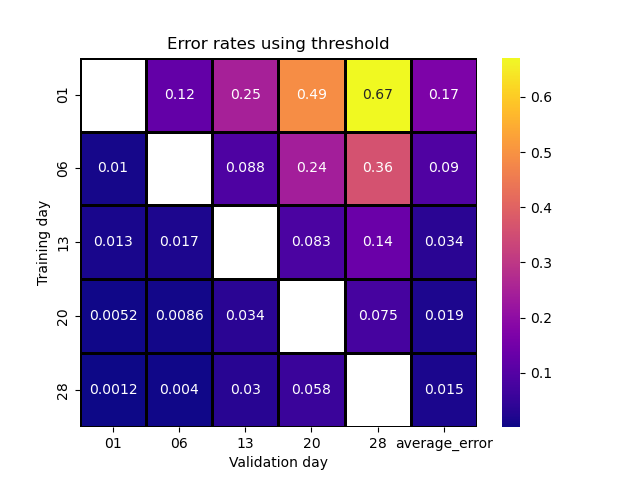
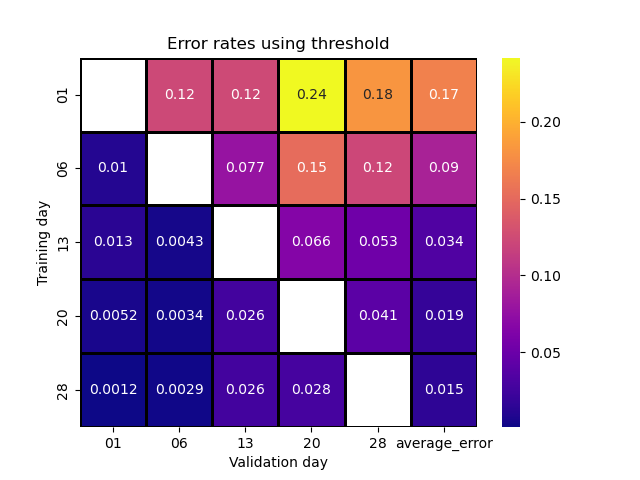
bug in plot

diff --git a/Project2/exp3.py b/Project2/exp3.py
@@ -34,15 +34,19 @@ def finds_best_band_using_threshold(fatPix, meatPix):
             mean_error_rate.append((error_rate_meat[i] + error_rate_fat[i]) / 2)
 
     best_band = mean_error_rate.index(min(mean_error_rate))
-    return best_band, t[best_band]
+    return best_band, t[best_band], mean_fat[best_band] > mean_meat[best_band]
 
 
 
-def cal_thres_errorrate(band, threshold):
+def cal_thres_errorrate(fatPix, meatPix, band, threshold, mean_meat_less_mean_fat):
 
     # recall meat is less than threshold, fat is greater than threshold
-    thres_errors_fat = np.sum(fatPix[:, band] < threshold)
-    thres_errors_meat = np.sum(meatPix[:, band] > threshold)
+    if mean_meat_less_mean_fat:
+        thres_errors_fat = np.sum(fatPix[:, band] < threshold)
+        thres_errors_meat = np.sum(meatPix[:, band] > threshold)
+    else :
+        thres_errors_fat = np.sum(fatPix[:, band] > threshold)
+        thres_errors_meat = np.sum(meatPix[:, band] < threshold)    
     return (thres_errors_fat + thres_errors_meat) / (fatPix.shape[0] + meatPix.shape[0])
 
 
@@ -56,6 +60,7 @@ average_error_rates_thres = []
 error_rates_thres = []
 
 
+best_bands = []
 for training_image in days:
 
     # loads the training image
@@ -63,9 +68,9 @@ for training_image in days:
     [fatPix_ti, _, _] = hf.getPix(multiIm_ti, annotationIm_ti[:,:,1])
     [meatPix_ti, _, _] = hf.getPix(multiIm_ti, annotationIm_ti[:,:,2])
 
-    best_bands = []
-    band, threshold = finds_best_band_using_threshold(fatPix_ti, meatPix_ti)
+    band, threshold, mean_meat_less_mean_fat = finds_best_band_using_threshold(fatPix_ti, meatPix_ti)
     best_bands.append(band)
+
 
     error_sum = 0
     errors = []
@@ -104,9 +109,9 @@ for training_image in days:
 
         #### USing a threshold
         
-        error_rate_thres = cal_thres_errorrate(band, threshold)
+        error_rate_thres = cal_thres_errorrate(fatPix, meatPix, band, threshold, mean_meat_less_mean_fat)
         error_sum_thres += error_rate_thres 
-        errors_thres.append(error_sum_thres)
+        errors_thres.append(error_rate_thres)
         
 
     # calculate the average error rate
@@ -141,6 +146,7 @@ plt.show()
 # find the best day for training, according to the average error rate
 best_day_thres = average_error_rates_thres.index(min(average_error_rates_thres))
 print(f'Best day for training using threshold: {days[best_day_thres]} with an average error rate of {average_error_rates_thres[best_day_thres]}')
+print(best_bands)
 
 # Plotting the error rates
 corralation_matrix_thres = np.matrix(error_rates_thres)
